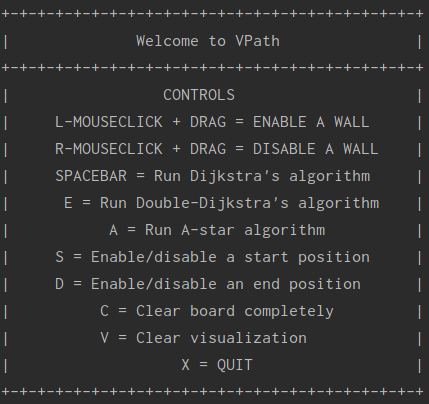
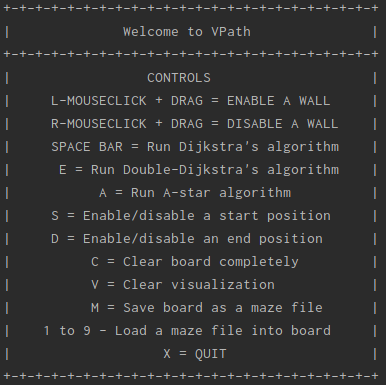
Fixed saving maze method and updated images and added new mazes

diff --git a/main.py b/main.py
@@ -28,6 +28,28 @@ drag = False
 clear_drag = False
 
 
+def handle_event(event: pygame.event) -> None:
+    """
+    Handles the mouseclick event specifically for a node object
+    :param event: a pygame event
+    :return: None
+    """
+    global drag
+    global clear_drag
+    # Check if there is a mouse click directly on one of the nodes
+    if event.type == pygame.MOUSEBUTTONDOWN:
+        if event.button == pygame.BUTTON_LEFT:
+            # If the mouse button was the left button enable wall status for the selected node
+            drag = True
+        elif event.button == pygame.BUTTON_RIGHT:
+            # If the mouse button was the right button disable wall status for the selected node
+            clear_drag = True
+    # Check if the mouse is no longer clicked at which point drag is no longer true
+    if event.type == pygame.MOUSEBUTTONUP:
+        drag = False
+        clear_drag = False
+
+
 def time_it(method):
     """
     Timing decorator that outputs how long an algorithm takes to find or not find a path
@@ -434,7 +456,7 @@ class Graph(object):
         :return: None
         """
         path = PurePath.joinpath(Path.cwd(), 'mazes')
-        num = min(len([n for n in os.listdir(path)]) + 1, 9)
+        num = int(input("\nWhat number maze would you like this to be (1-9): "))
         filename = PurePath.joinpath(path, f"maze{num}.txt")
 
         with open(filename, 'w') as f:
@@ -481,28 +503,6 @@ class Graph(object):
                         n.draw(screen)
         except FileNotFoundError:
             print(f"You don't have a maze{num}.txt file")
-
-
-def handle_event(event: pygame.event) -> None:
-    """
-    Handles the mouseclick event specifically for a node object
-    :param event: a pygame event
-    :return: None
-    """
-    global drag
-    global clear_drag
-    # Check if there is a mouse click directly on one of the nodes
-    if event.type == pygame.MOUSEBUTTONDOWN:
-        if event.button == pygame.BUTTON_LEFT:
-            # If the mouse button was the left button enable wall status for the selected node
-            drag = True
-        elif event.button == pygame.BUTTON_RIGHT:
-            # If the mouse button was the right button disable wall status for the selected node
-            clear_drag = True
-    # Check if the mouse is no longer clicked at which point drag is no longer true
-    if event.type == pygame.MOUSEBUTTONUP:
-        drag = False
-        clear_drag = False
 
 
 class Node(object):
@@ -635,13 +635,15 @@ def instructions() -> None:
     print("|                 CONTROLS                    |")
     print("|     L-MOUSECLICK + DRAG = ENABLE A WALL     |")
     print("|     R-MOUSECLICK + DRAG = DISABLE A WALL    |")
-    print("|     SPACEBAR = Run Dijkstra's algorithm     |")
+    print("|     SPACE BAR = Run Dijkstra's algorithm    |")
     print("|      E = Run Double-Dijkstra's algorithm    |")
     print("|           A = Run A-star algorithm          |")
     print("|     S = Enable/disable a start position     |")
     print("|     D = Enable/disable an end position      |")
     print("|          C = Clear board completely         |")
     print("|          V = Clear visualization            |")
+    print("|          M = Save board as a maze file      |")
+    print("|    1 to 9 - Load a maze file into board     |")
     print("|                   X = QUIT                  |")
     print("+-+-+-+-+-+-+-+-+-+-+-+-+-+-+-+-+-+-+-+-+-+-+-+")
 
